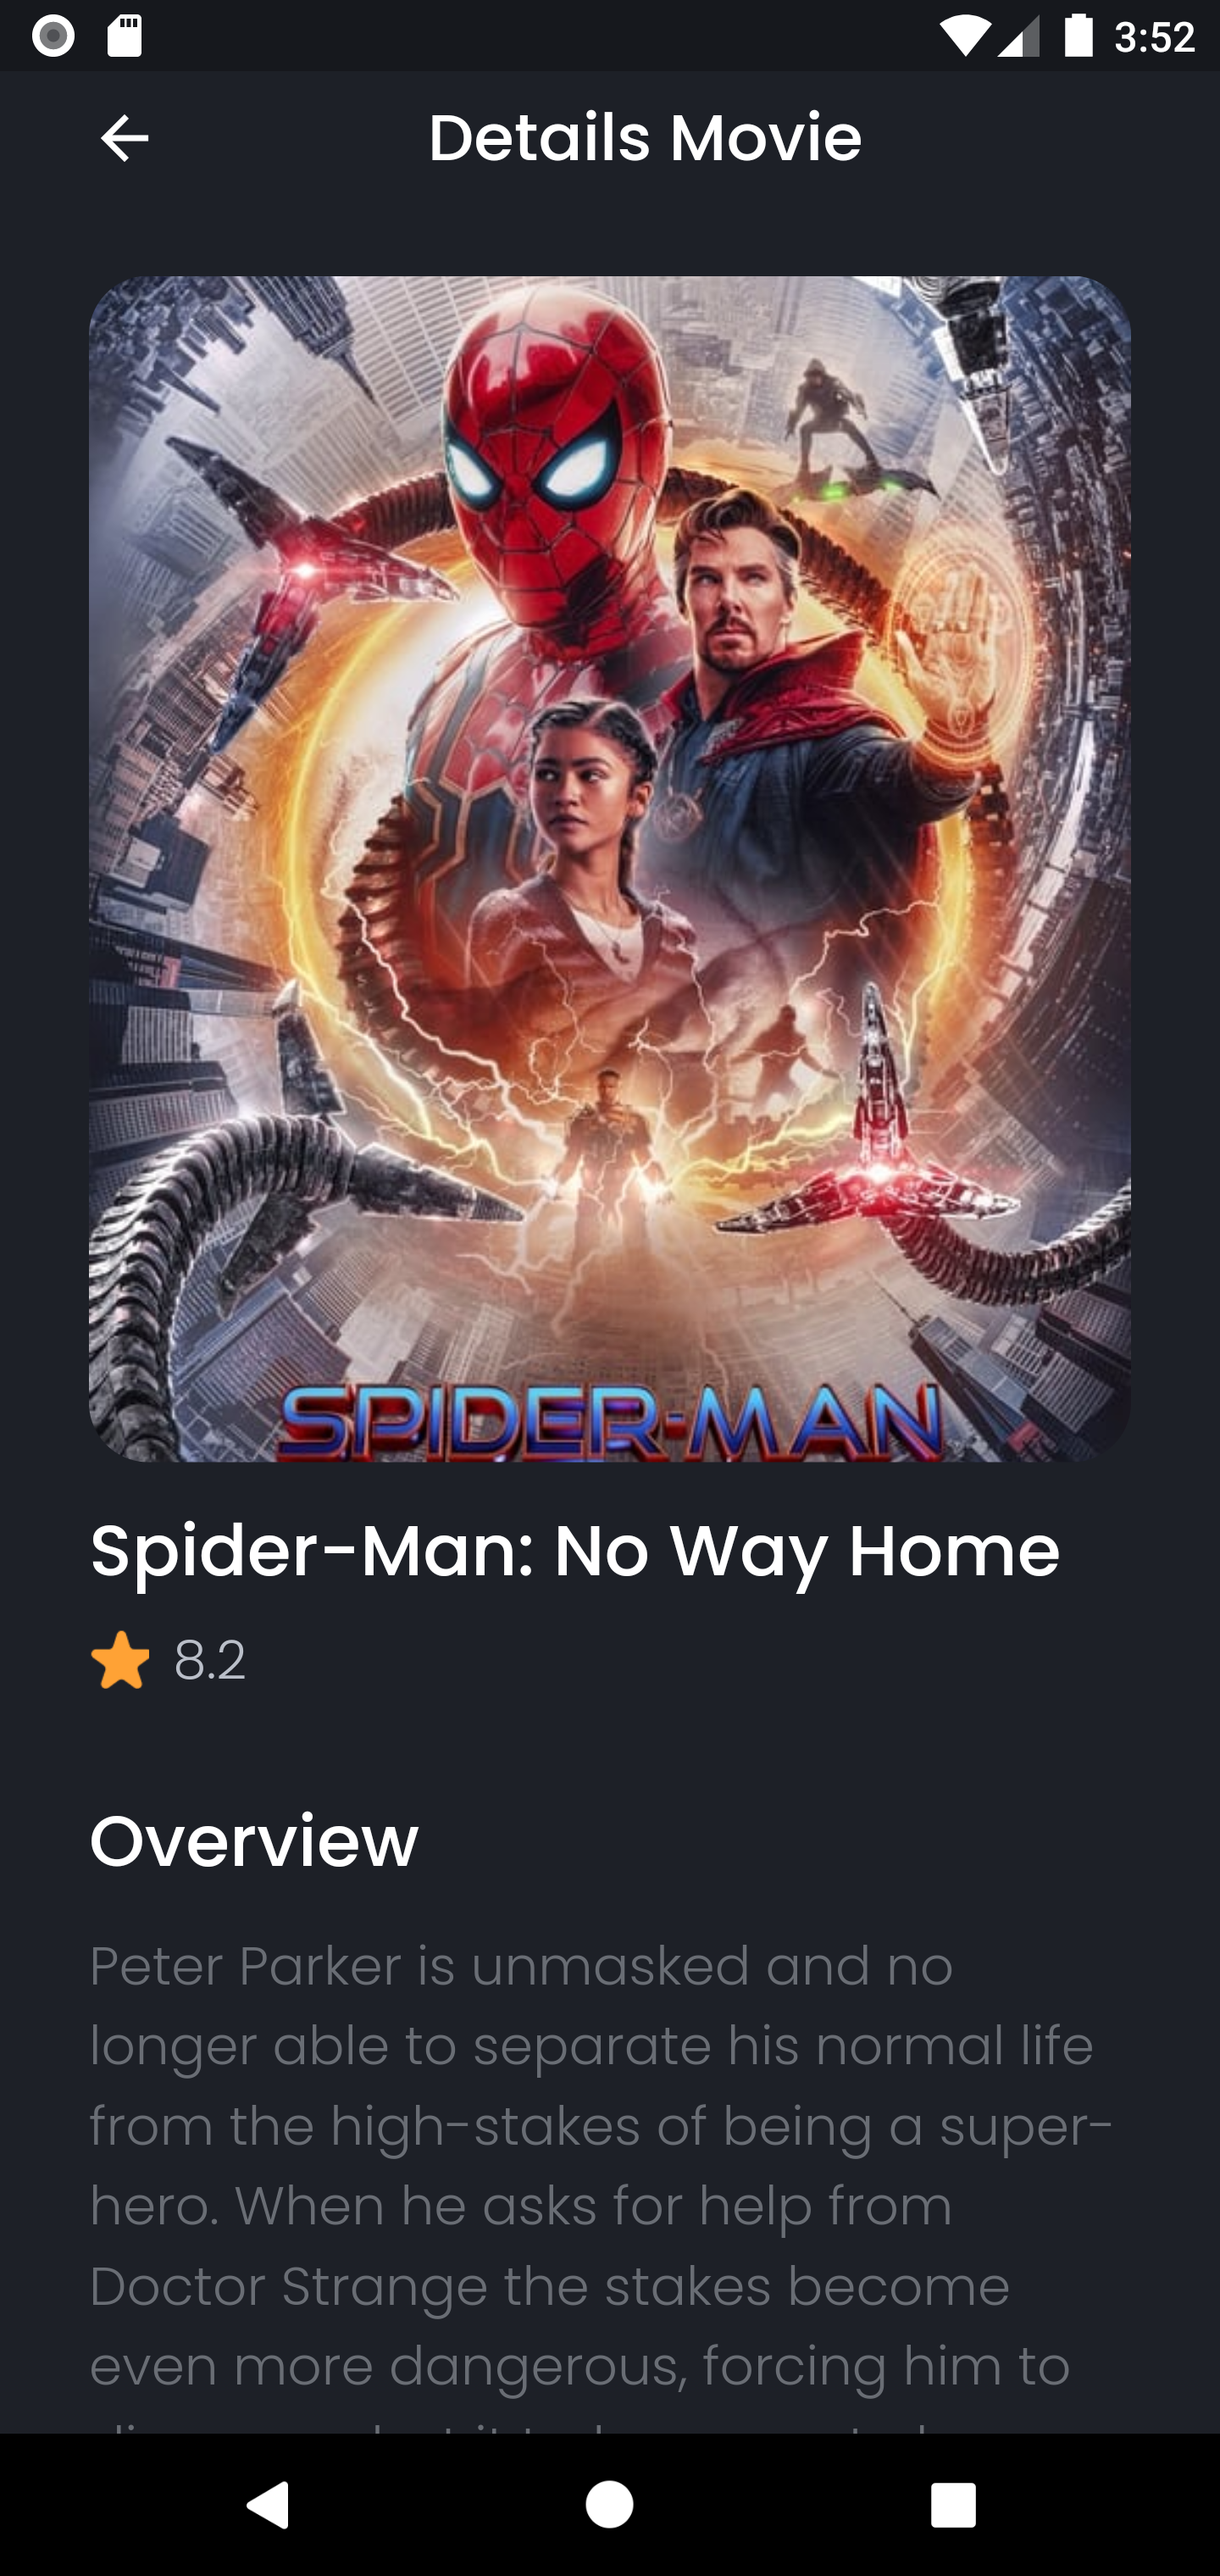
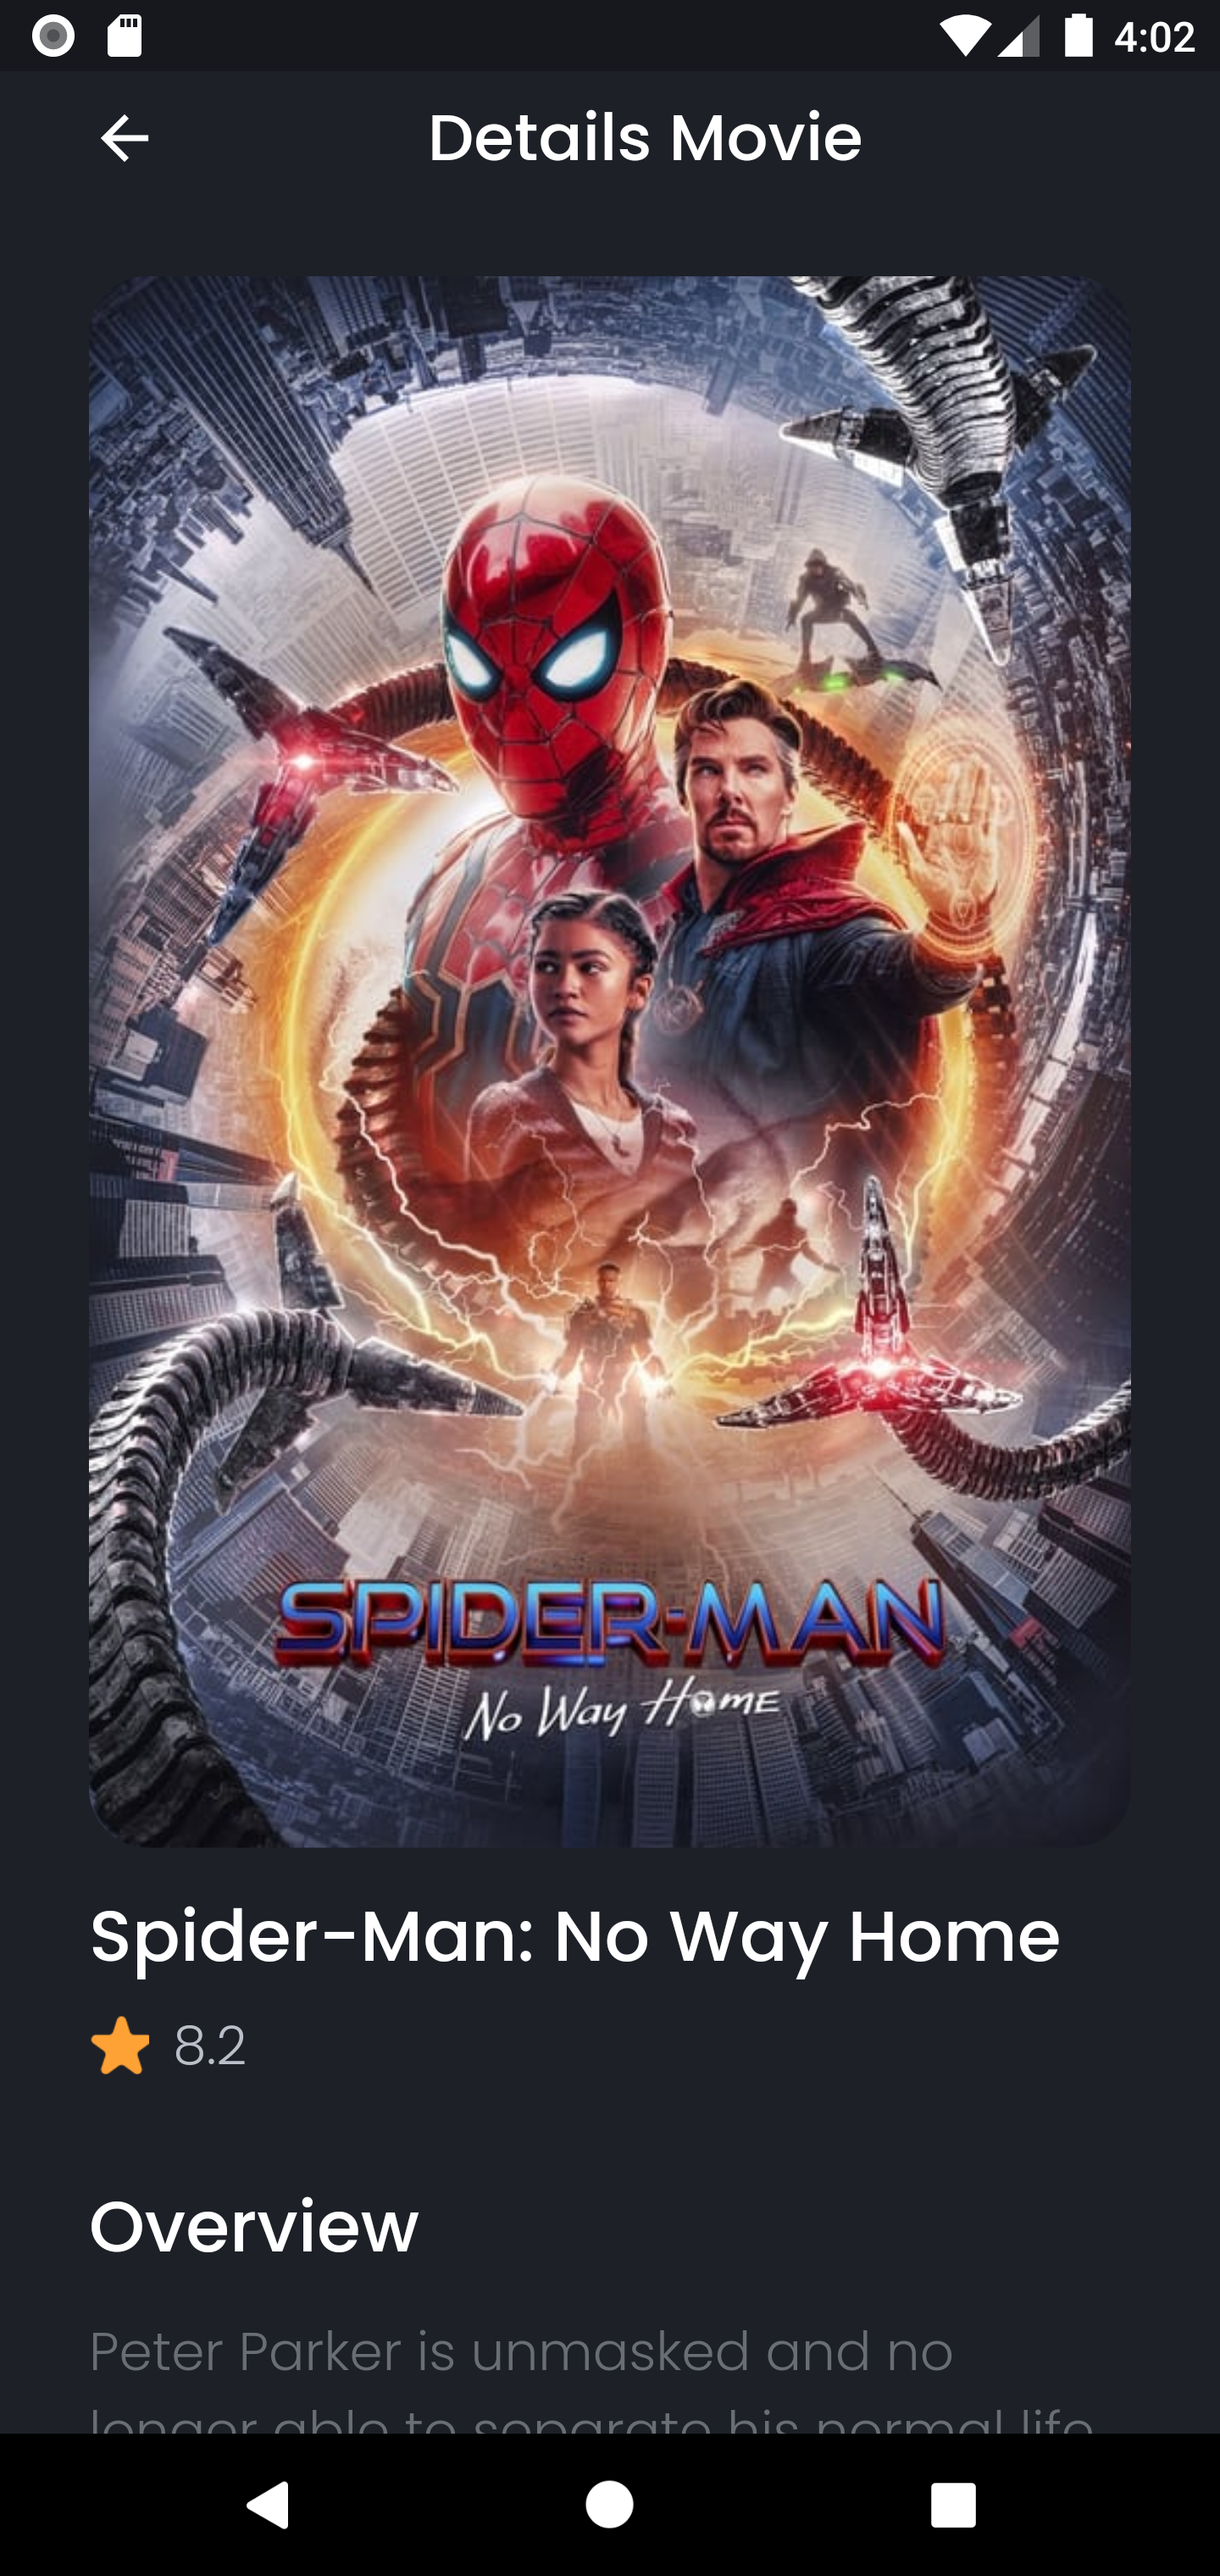
Update file movie_detail.dart dan Update file README.md

diff --git a/lib/pages/modification/movie_detail.dart b/lib/pages/modification/movie_detail.dart
@@ -53,7 +53,7 @@ class MovieDetail extends StatelessWidget {
               const SizedBox(height: 30),
               Container(
                 width: double.infinity,
-                height: 400,
+                height: 530,
                 decoration: BoxDecoration(
                   borderRadius: BorderRadius.circular(20),
                   image: DecorationImage(

diff --git a/README.md b/README.md
@@ -8,14 +8,18 @@ Prodi : Manajemen Informatika <br>
 ## Result
 
 <span>
-    <img src="assets/images/1.png" width="200">
+    <img src="assets/images/1.png" width="250">
 </span>
 <span>
-    <img src="assets/images/2.png" width="200">
+    <img src="assets/images/2.png" width="250">
+</span>
+<br>
+<span>
+    <img src="assets/images/3.png" width="250">
 </span>
 <span>
-    <img src="assets/images/3.png" width="200">
+    <img src="assets/images/4.png" width="250">
 </span>
 <span>
-    <img src="assets/images/4.png" width="200">
+    <img src="assets/images/5.png" width="250">
 </span>
